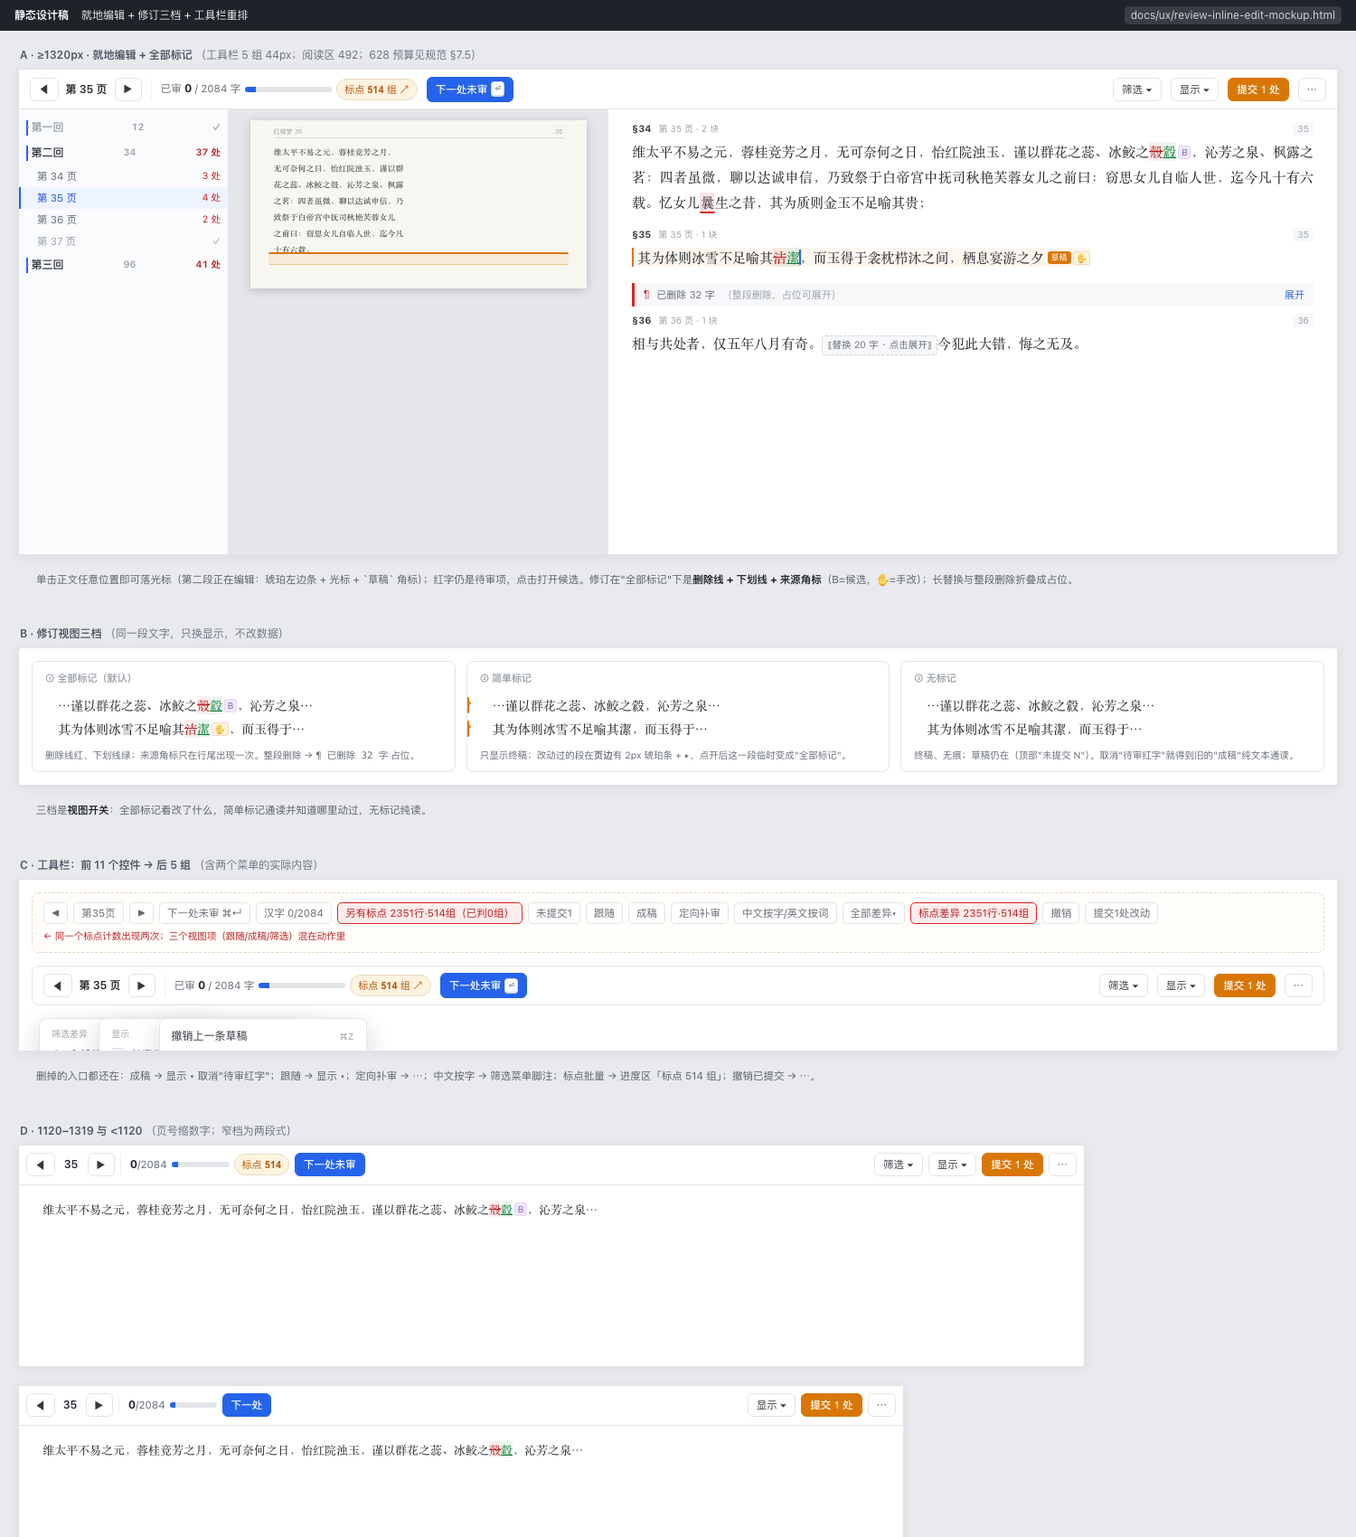
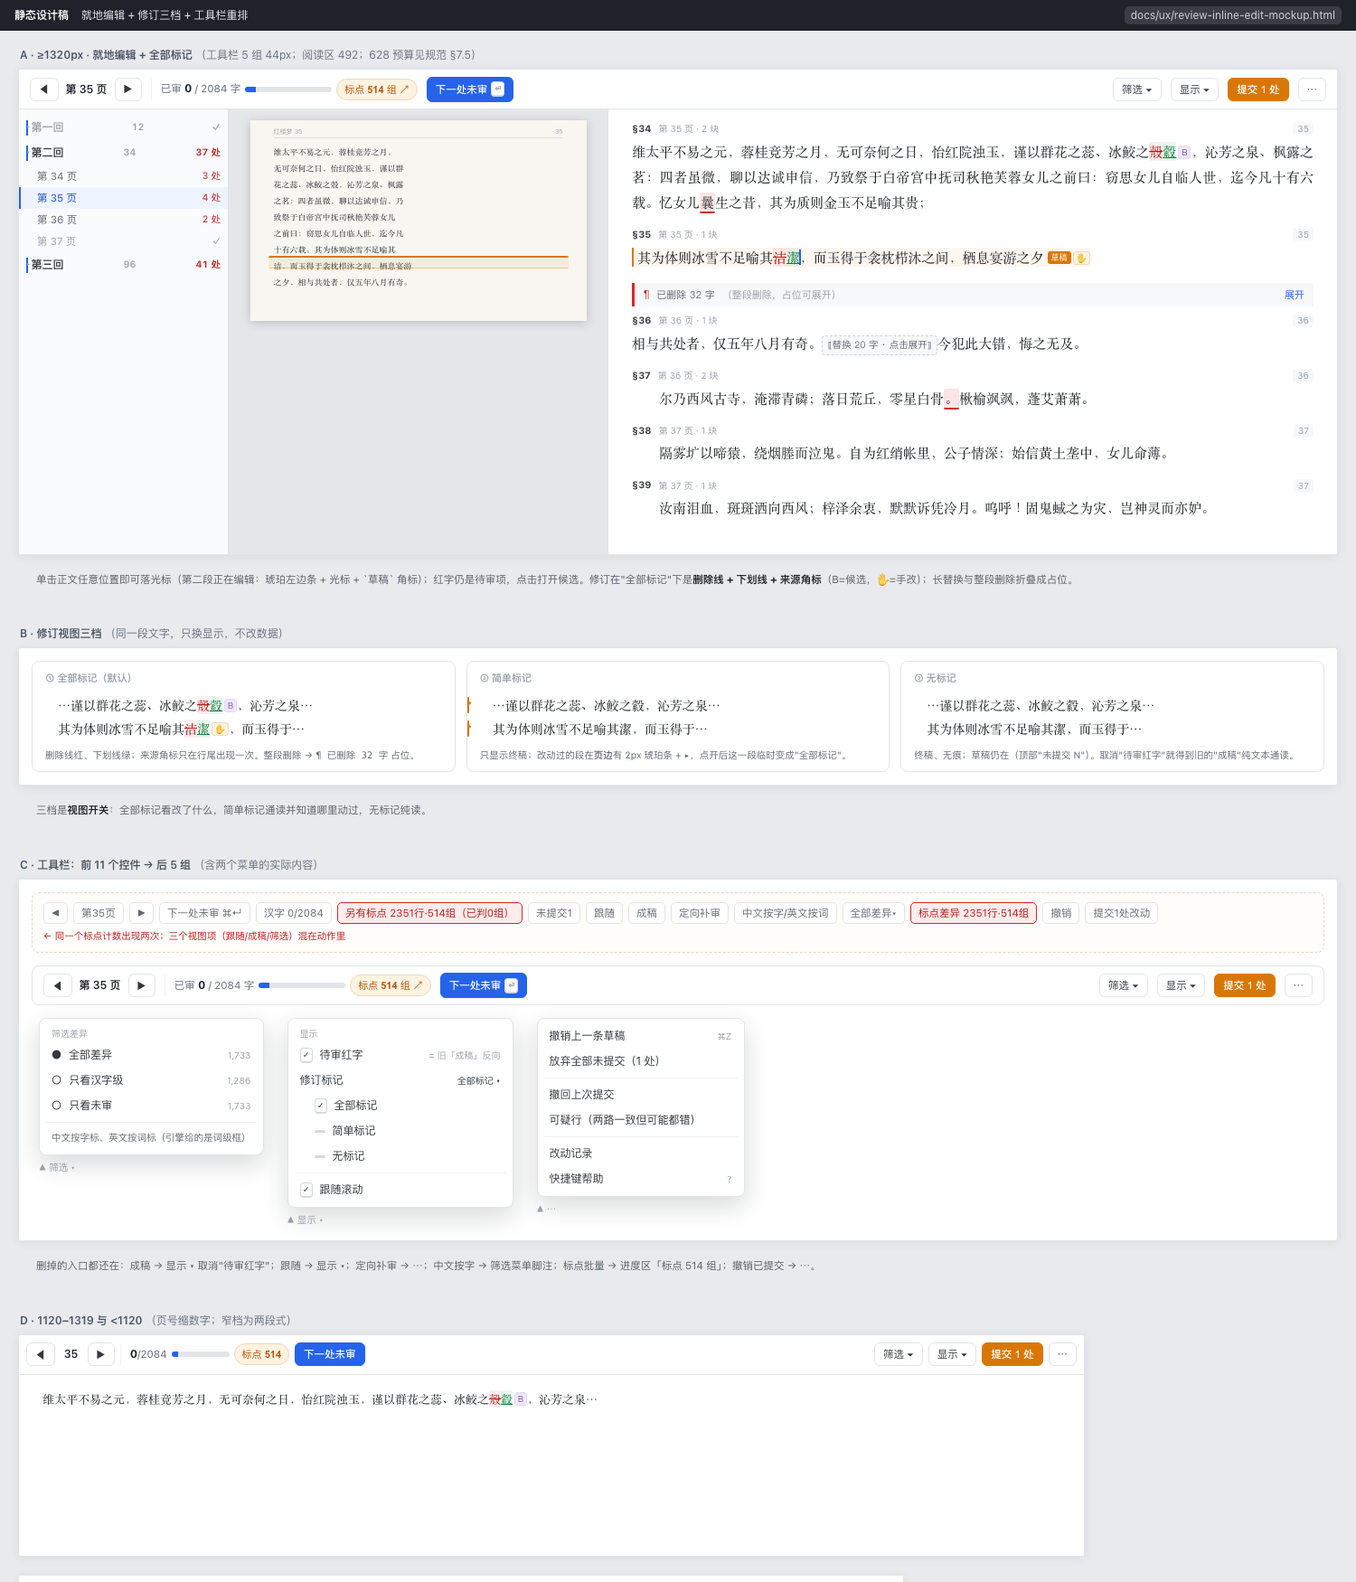
perf(review): 任务运行期间收尾面板一律给快照（stale），不再整本重算
- cache_policy.can_serve_stale：有任务在跑就复用，不看年龄；任务状态查询记忆 2 秒
- finish_summary 把"有没有任务在跑"判断放到最前面，命中直接返回，连签名都不算
  （load_project + stat 在识别写库时会被 SQLite 写锁拖到 100–400 ms）
- 进程刚起时读磁盘快照也不校验签名（仍标 stale）
- 响应带 stale / served_at / stale_age_seconds；任务结束第一次请求重算成真实值
- 前端：chip「收尾 N/6 · 更新中」+ 收尾面板说明；任务结束轮询分支显式重载
- 实测：识别 662 页全程连打 10 次 20–100 ms 全部 stale；任务结束后 stale 消失
- pytest 976 passed；D-101

diff --git a/docs/ux/review-inline-edit-mockup.html b/docs/ux/review-inline-edit-mockup.html
@@ -101,7 +101,7 @@ body{margin:0;background:#e9eaee;color:var(--text);
 .changed::after{content:"▸";position:absolute;left:-13px;top:-2px;font-size:8px;color:var(--warn)}
 
 /* ── 菜单（画在稿子里） ── */
-.menu{position:absolute;background:var(--surface);border:1px solid var(--line);border-radius:8px;
+.menu{position:static;background:var(--surface);border:1px solid var(--line);border-radius:8px;
   box-shadow:0 10px 28px rgba(15,18,24,.16);padding:5px;min-width:200px;font-size:12px;z-index:5}
 .menu__item{display:flex;align-items:center;gap:8px;padding:5px 8px;border-radius:5px;color:var(--text-2)}
 .menu__item:hover{background:var(--surface-3)}
@@ -180,8 +180,10 @@ body{margin:0;background:#e9eaee;color:var(--text);
             <div class="pl">之茗：四者虽微，聊以达诚申信，乃</div>
             <div class="pl">致祭于白帝宫中抚司秋艳芙蓉女儿</div>
             <div class="pl">之前曰：窃思女儿自临人世，迄今凡</div>
-            <div class="pl">十有六载。</div>
-            <div class="syncline" style="top:146px"></div>
+            <div class="pl">十有六载。其为体则冰雪不足喻其</div>
+            <div class="syncline" style="top:150px"></div>
+            <div class="pl">洁，而玉得于衾枕栉沐之间，栖息宴游</div>
+            <div class="pl">之夕，相与共处者，仅五年八月有奇。</div>
           </div>
         </aside>
 
@@ -201,6 +203,21 @@ body{margin:0;background:#e9eaee;color:var(--text);
           <div class="seg">
             <div class="seg__h"><b>§36</b><span>第 36 页 · 1 块</span><span class="pgm">36</span></div>
             <div class="para"><span class="ln">相与共处者，仅五年八月有奇。</span><span class="fold">⟦替换 20 字 · 点击展开⟧</span><span class="ln">今犯此大错，悔之无及。</span></div>
+          </div>
+
+          <div class="seg">
+            <div class="seg__h"><b>§37</b><span>第 36 页 · 2 块</span><span class="pgm">36</span></div>
+            <div class="para"><span class="ln">　　尔乃西风古寺，淹滞青磷；落日荒丘，零星白骨</span><span class="mk mk--todo">。</span><span class="ln">楸榆飒飒，蓬艾萧萧。</span></div>
+          </div>
+
+          <div class="seg">
+            <div class="seg__h"><b>§38</b><span>第 37 页 · 1 块</span><span class="pgm">37</span></div>
+            <div class="para"><span class="ln">　　隔雾圹以啼猿，绕烟塍而泣鬼。自为红绡帐里，公子情深；始信黄土垄中，女儿命薄。</span></div>
+          </div>
+
+          <div class="seg">
+            <div class="seg__h"><b>§39</b><span>第 37 页 · 1 块</span><span class="pgm">37</span></div>
+            <div class="para"><span class="ln">　　汝南泪血，斑斑洒向西风；梓泽余衷，默默诉凭冷月。呜呼！固鬼蜮之为灾，岂神灵而亦妒。</span></div>
           </div>
         </div>
       </div>

diff --git a/backend/book2text/static/app.js b/backend/book2text/static/app.js
@@ -7468,6 +7468,9 @@ async function pollTask() {
       openTaskDrawer();
     }
     await loadSummary(); // 任务结束后统计会变（复核行数、任务失败率）
+    // 任务 69：任务在跑期间收尾面板给的是旧快照（不跟识别抢 CPU），
+    // 任务一结束必须重算一次，否则步骤条会一直停在快照上。
+    await loadFinishSummary({ silent: true });
     // 自动应用由识别子进程在结算后写入：这里等一轮再查，新出现的那一条会弹提示
     await loadAutoApplyStatus({ announce: true, jobId: data.job.job_id });
   } else {
@@ -13749,7 +13752,10 @@ function nextUnfinishedPage(afterPageNo) {
 // ---------------------------------------------------------------- 收尾面板（任务 66）
 
 function finishChipText() {
-  return finishSummary ? `收尾 ${finishSummary.k}/6` : "收尾 —/6";
+  // 任务 69：识别在跑时服务端给的是**旧快照**（不重算 662 页），这里要说明白，
+  // 否则用户会以为"刚认完的页怎么没算进去"。
+  const suffix = finishSummary && finishSummary.stale ? " · 更新中" : "";
+  return finishSummary ? `收尾 ${finishSummary.k}/6${suffix}` : "收尾 —/6";
 }
 
 function updateFinishChips() {
@@ -13759,7 +13765,12 @@ function updateFinishChips() {
     node.textContent = finishChipText();
     node.classList.toggle("is-incomplete", Boolean(finishSummary) && finishSummary.k < 6);
     node.classList.toggle("is-done", Boolean(finishSummary) && finishSummary.k === 6);
+    node.title = finishSummary && finishSummary.stale
+      ? "识别进行中，这里的数字是上一次算好的快照（不跟识别抢 CPU）。识别结束后自动变准。"
+      : "";
   }
+  const note = el("finish-stale-note");
+  if (note) note.hidden = !(finishSummary && finishSummary.stale);
 }
 
 function finishIcon(id, state) {

diff --git a/backend/book2text/static/index.html b/backend/book2text/static/index.html
@@ -1648,6 +1648,7 @@
       <button type="button" id="finish-close" class="icon-btn" title="关闭">✕</button>
     </div>
     <div class="finish-drawer__body">
+      <p class="hint" id="finish-stale-note" hidden>识别进行中，这里的数字是上一次算好的快照；识别结束后自动变准。</p>
       <ul class="finish-list">
         <li class="finish-row" id="finish-row-page-type">
           <span class="finish-icon" id="finish-icon-page-type">·</span>

diff --git a/backend/book2text/core/project/review_status.py b/backend/book2text/core/project/review_status.py
@@ -20,6 +20,7 @@ from __future__ import annotations
 import json
 import os
 import time
+from datetime import datetime, timezone
 from pathlib import Path
 
 from . import blocks as blocks_module
@@ -680,6 +681,17 @@ def _finish_cache_path(project_id: str, library: Path) -> Path:
     return library_module.project_dir(library, project_id) / "cache" / "finish-summary.json"
 
 
+def _read_finish_cache_any(project_id: str, library: Path) -> dict | None:
+    """读磁盘上的收尾面板快照，**不校验签名**（只给"识别进行中先用旧值"用）。"""
+    path = _finish_cache_path(project_id, library)
+    try:
+        payload = json.loads(path.read_text(encoding="utf-8"))
+    except (OSError, json.JSONDecodeError):
+        return None
+    data = payload.get("payload") if isinstance(payload, dict) else None
+    return data if isinstance(data, dict) else None
+
+
 def _read_finish_cache(project_id: str, library: Path, signature: str) -> dict | None:
     """读磁盘上的收尾面板结果（任务 63：跨进程也秒回）。
 
@@ -740,6 +752,13 @@ def _cache_age(project_id: str) -> float:
     return max(0.0, time.monotonic() - stamp)
 
 
+def _stale_snapshot(payload: dict, computed_at: float | None) -> dict:
+    """把缓存里的收尾面板结果标成"旧快照"返回（不改缓存本身）。"""
+    served_at = datetime.now(timezone.utc).isoformat(timespec="seconds")
+    age = None if computed_at is None else round(max(0.0, time.monotonic() - computed_at), 1)
+    return {**payload, "stale": True, "served_at": served_at, "stale_age_seconds": age}
+
+
 def finish_summary(project_id: str, *, library: Path | None = None) -> dict:
     """收尾面板的六个状态：全部从数据库实时聚合，不依赖前端估算。
 
@@ -751,17 +770,30 @@ def finish_summary(project_id: str, *, library: Path | None = None) -> dict:
     16 处页边界只要还有人没看，这一步就不算完——否则那 16 处段落错误没人知道。
     """
     target_library = library if library is not None else library_module.default_library_dir()
+    # 任务 69：识别在跑的整个过程中，**一律返回旧快照，不再重算**。
+    # 识别每认完一页都写库，签名每 3–5 秒变一次；662 页整本重算空闲 340 ms、
+    # 有负载时 3.5 s——为了步骤条上几个此刻没人盯的数字，去跟识别抢几十次核，不值得。
+    #
+    # 所以"有没有任务在跑"这个判断放在**最前面**：命中就直接返回快照，
+    # 连签名（要 `load_project` + stat 库文件）都不算——那两个动作在识别写库时
+    # 会被 SQLite 写锁拖到 100–400 ms，正是上一版毛刺的来源。
+    # 任务一结束判断变假，走下面的正常路径，第一次请求就是真实值。
+    if cache_policy.can_serve_stale(project_id, target_library):
+        snapshot = _FINISH_CACHE.get(project_id)
+        served_at = _FINISH_CACHE_AT.get(project_id)
+        if snapshot is None:
+            # 进程刚起、内存里还没有：磁盘上那份快照就算签名不匹配也先拿来用
+            disk_any = _read_finish_cache_any(project_id, target_library)
+            if disk_any is not None:
+                _FINISH_CACHE[project_id] = ("", disk_any)
+                _FINISH_CACHE_AT[project_id] = time.monotonic()
+                snapshot = ("", disk_any)
+                served_at = _FINISH_CACHE_AT[project_id]
+        if snapshot is not None:
+            return _stale_snapshot(snapshot[1], served_at)
     signature = _finish_signature(project_id, target_library)
     cached = _FINISH_CACHE.get(project_id)
     if cached and signature and cached[0] == signature:
-        return cached[1]
-    # 任务 68：识别在跑的时候，**每认完一页都会写库**，签名每 4 秒变一次，
-    # 收尾面板于是每次都重算（662 页英文书实测 760 ms，是识别期间最慢的一个请求）。
-    # 识别期间允许用一份"最多 3 秒前"的结果：步骤条是个进度指示，落后 3 秒看不见；
-    # 任务结束后签名稳定，立刻回到实时。
-    if cached and cache_policy.can_reuse(
-        project_id, target_library, _FINISH_CACHE_AT.get(project_id)
-    ):
         return cached[1]
     disk = _read_finish_cache(project_id, target_library, signature)
     if disk is not None:

diff --git a/backend/book2text/core/project/cache_policy.py b/backend/book2text/core/project/cache_policy.py
@@ -29,19 +29,51 @@ from . import library as library_module
 MAX_AGE_SECONDS = 10.0
 
 
+_JOB_STATE: dict[str, tuple[float, bool]] = {}
+"""项目 → (查询时刻, 有没有任务在跑)。
+
+为什么记得住：识别写库时 SQLite 有写锁，每次请求都查任务表会在锁上等
+（实测 finish-summary 因此出现 220–420 ms 毛刺）。任务动辄跑几十分钟，
+"2 秒前查过"和"现在查"没有区别；而任务结束后最多多给 2 秒旧快照，
+下一次请求就会重算成真实值。
+"""
+
+_JOB_STATE_TTL = 2.0
+
+
 def job_running(project_id: str, library: Path) -> bool:
-    """这个项目现在有没有识别 / 复核 / 版面任务在跑。"""
+    """这个项目现在有没有识别 / 复核 / 版面任务在跑（结果记忆 2 秒）。"""
+    now = time.monotonic()
+    cached = _JOB_STATE.get(project_id)
+    if cached and now - cached[0] < _JOB_STATE_TTL:
+        return cached[1]
     try:
         directory = library_module.project_dir(library, project_id)
-        return bool(jobs_module.active_jobs(directory))
+        running = bool(jobs_module.active_jobs(directory))
     except Exception:  # noqa: BLE001 - 任务表读不到就按"没在跑"处理（退回实时计算）
-        return False
+        running = False
+    _JOB_STATE[project_id] = (now, running)
+    return running
 
 
 def can_reuse(project_id: str, library: Path, cached_at: float | None) -> bool:
-    """缓存能否在"忙时"被复用：有任务在跑 **且** 缓存足够新。"""
+    """缓存能否在"忙时"被复用：有任务在跑 **且** 缓存不过期（默认 10 秒）。"""
     if cached_at is None:
         return False
     if time.monotonic() - cached_at > MAX_AGE_SECONDS:
         return False
+    return job_running(project_id, library)
+
+
+def can_serve_stale(project_id: str, library: Path) -> bool:
+    """有任务在跑时**一律**复用旧快照（不看年龄）。
+
+    只给"整本重算很贵、而用户此刻并不需要实时值"的接口用（目前是收尾面板）。
+    识别 662 页要 20–55 分钟，每认完一页都写库、每写一次都会让缓存失效；
+    按 10 秒窗口复用等于每两三页就整本重算一次（662 页 340 ms–3.5 s），
+    而它算出来的只是步骤条上几个此刻没人盯的数字。
+
+    正确性边界：任务结束时签名稳定，第一次请求就会重算成真实值；
+    响应里带 `stale: true` / `served_at`，界面上写「识别进行中，数据更新中…」。
+    """
     return job_running(project_id, library)

diff --git a/docs/decisions.md b/docs/decisions.md
@@ -3484,3 +3484,33 @@ Retina 上等于放大 2 倍所以糊，PNG 又让一页到 1.77 MB。
 
 **验证：** 报告 `docs/qa/ocr-worker-throttling-20261028.md`；识别均页 4.24 s → 3.51 s
 （没变慢），识别中界面请求全部 ≤300 ms；`pytest` 976 passed。**状态：** 生效（2026-10-28）。
+
+## D-101 | 2026-10-28 | 有任务在跑时，收尾面板一律返回旧快照（带 stale 标记）
+
+**背景：** 识别 662 页要 20–55 分钟，**每认完一页都写一次库**，派生缓存的签名每 3–5 秒
+变一次。按"忙时复用 10 秒"的规则，等于每两三页就把收尾面板整本重算一遍
+（空闲 340 ms、有负载 3.5 s），算出来的只是步骤条上几个此刻没人盯的数字，
+还要跟识别抢核。实测识别中连打 6 次：`590 / 90 / 120 / 130 / 100 / 610 ms`。
+
+**决定：**
+
+1. **任务运行期间一律返回上一次的快照，不重算**（`cache_policy.can_serve_stale`）：
+   - 判断放在**最前面**，命中就返回，连签名（要 `load_project` + stat 库文件）都不算
+     ——那两个动作在识别写库时会被 SQLite 写锁拖到 100–400 ms，是上一版毛刺的来源；
+   - 进程刚起、内存里没有快照时，磁盘上那份**不校验签名**先用（还是快照）；
+   - 响应带 `stale: true` / `served_at` / `stale_age_seconds`。
+2. "有没有任务在跑"这个查询**记忆 2 秒**：任务动辄几十分钟，"2 秒前查过"没有区别；
+   任务结束后最多多给 2 秒旧快照。
+3. 任务一结束，签名稳定 → 第一次请求重算成真实值；前端在任务结束的轮询分支里
+   显式 `loadFinishSummary()`，`stale` 消失。
+4. 界面：顶栏 chip 写「收尾 N/6 · 更新中」，悬停说明原因，收尾面板里一行
+   「识别进行中，这里的数字是上一次算好的快照；识别结束后自动变准。」
+
+**代价 / 边界：** 任务运行期间，用户自己在同一项目里做的裁决**不会**反映到收尾面板
+（最多滞后到任务结束）——审校面板本身仍然实时。marks / 阅读流 segments 仍是 10 秒窗口
+（它们便宜得多：识别中 14–30 ms）。
+
+**验证：** 识别 662 页全程 `finish-summary` 连打 10 次全部 **20–100 ms**、全部 `stale: true`；
+另一个项目上造 3 页小任务：任务中 `stale: true`、任务结束后第一次请求 `stale: null` 且数字变准。
+报告 `docs/qa/ocr-worker-throttling-20261028.md`；`pytest` 见下。
+**状态：** 生效（2026-10-28）。

diff --git a/docs/ux/review-inline-edit.md b/docs/ux/review-inline-edit.md
@@ -188,14 +188,13 @@ draft = {
 ### 7.2 新结构：5 组，一条 44px
 
 ```
-┌ 导航 ──────┬ 进度 ────────────────┬ 定位 ──────────┬ 筛选/显示 ┬ 动作 ────────┐
-│ ◀ 第 35 页 ▶ │ 已审 0 / 2084 字 ▓░░░ │ [下一处未审 ⏎] │ 筛选▾ 显示▾│ [提交 1 处] ⋯ │
-│             │ 标点 514 组 ↗        │                │           │              │
-└─────────────┴──────────────────────┴────────────────┴───────────┴──────────────┘
+┌ 导航 ──────┬ 进度 ────────────────────────────┬ 定位 ──────────┬ 筛选/显示 ┬ 动作 ────────┐
+│ ◀ 第35页 ▶ │ 已审 0/2084 字 ▓░░░ · 标点 514 组↗ │ [下一处未审 ⏎] │ 筛选▾ 显示▾│ [提交1处] ⋯ │
+└─────────────┴──────────────────────────────────┴────────────────┴───────────┴──────────────┘
 ```
 
 - **导航**：页号可点（输入跳转）；◀ ▶ 翻页。
-- **进度**：`已审 0 / 2084 字` + 细进度条；下面一行 `标点 514 组 ↗` —— **合并了重复的两个计数**，并且它是唯一入口（打开批量裁决面板），tooltip 写"2351 行 · 514 组 · 已判 0 组"。
+- **进度**：同一行内 `已审 0 / 2084 字` + 细进度条 + `· 标点 514 组 ↗` —— **合并了重复的两个计数**，标点是唯一入口（打开批量裁决面板），tooltip 写"2351 行 · 514 组 · 已判 0 组"。
 - **定位**：`下一处未审 ⏎` 蓝色主按钮，距左约 1/3 处（视线最容易落）。
 - **筛选 / 显示**：两个菜单按钮。
   - `筛选 ▾`：全部差异 / 只看汉字级 / 只看未审。

diff --git a/docs/qa/ocr-worker-throttling-20261028.md b/docs/qa/ocr-worker-throttling-20261028.md
@@ -69,14 +69,28 @@
 | `/pages/35/blocks` | 19 ms | 86 ms | ✅ |
 | 页图 `size=zoom` | 126 ms | 251 ms | ✅ |
 | 页图 `size=thumb` | 20 ms | 41–109 ms | ✅ |
-| `/review/finish-summary`（稳态） | 5 ms | **19–23 ms** | ✅ |
+| `/review/finish-summary`（稳态） | 5 ms | **20–100 ms**（快照，全部 `stale`） | ✅ |
 | 界面：切视图 / 翻页 / 下一处 | 48–67 ms | 48–67 ms | ✅ |
 
-**一个例外，说明清楚**：`finish-summary` 在识别中有毛刺 ——
-连打 6 次实测 `590 / 90 / 120 / 130 / 100 / 610 ms`，另有一次在**刚重启的进程 + 缓存被
-一页 OCR 作废**时到 **3,483 ms**。原因是它要重算 662 页（空闲时因为有缓存，同样条件
-冷算 340 ms、热 10 ms）。这是"整本重算"的老问题，不是识别抢 CPU 造成的，
-要根治得把收尾面板做成增量；不在这一刀里。
+### 收尾面板：识别期间一律给快照（任务 69 补的）
+
+第一版是"有任务在跑且缓存 ≤10 秒才复用"，结果一页 OCR 约 3.5 秒，等于每两三页就整本
+重算一次：连打 6 次 `590 / 90 / 120 / 130 / 100 / 610 ms`，还有一次在刚重启的进程里到
+**3,483 ms**。
+
+改成：**任务运行期间一律返回快照**，判断放在最前面（连签名都不算——`load_project` +
+stat 库文件在识别写库时会被 SQLite 写锁拖到 100–400 ms），"有没有任务在跑"查询记忆 2 秒。
+
+识别 662 页全程连打 10 次：
+
+```
+90 / 40 / 20 / 50 / 60 / 90 / 100 / 20 / 90 / 70 ms   全部 stale: true
+```
+
+任务结束后的第一次请求（另一个项目上造的 3 页小任务）：`stale: null`，数字变准。
+界面：chip 显示「收尾 0/6 · 更新中」，收尾面板里一行说明。
+
+整本重算仍是 340 ms（空闲）——那是"打开项目第一次"的成本，要根治得做增量（已记 D-101）。
 
 ## 四、重跑的可复现命令
 
